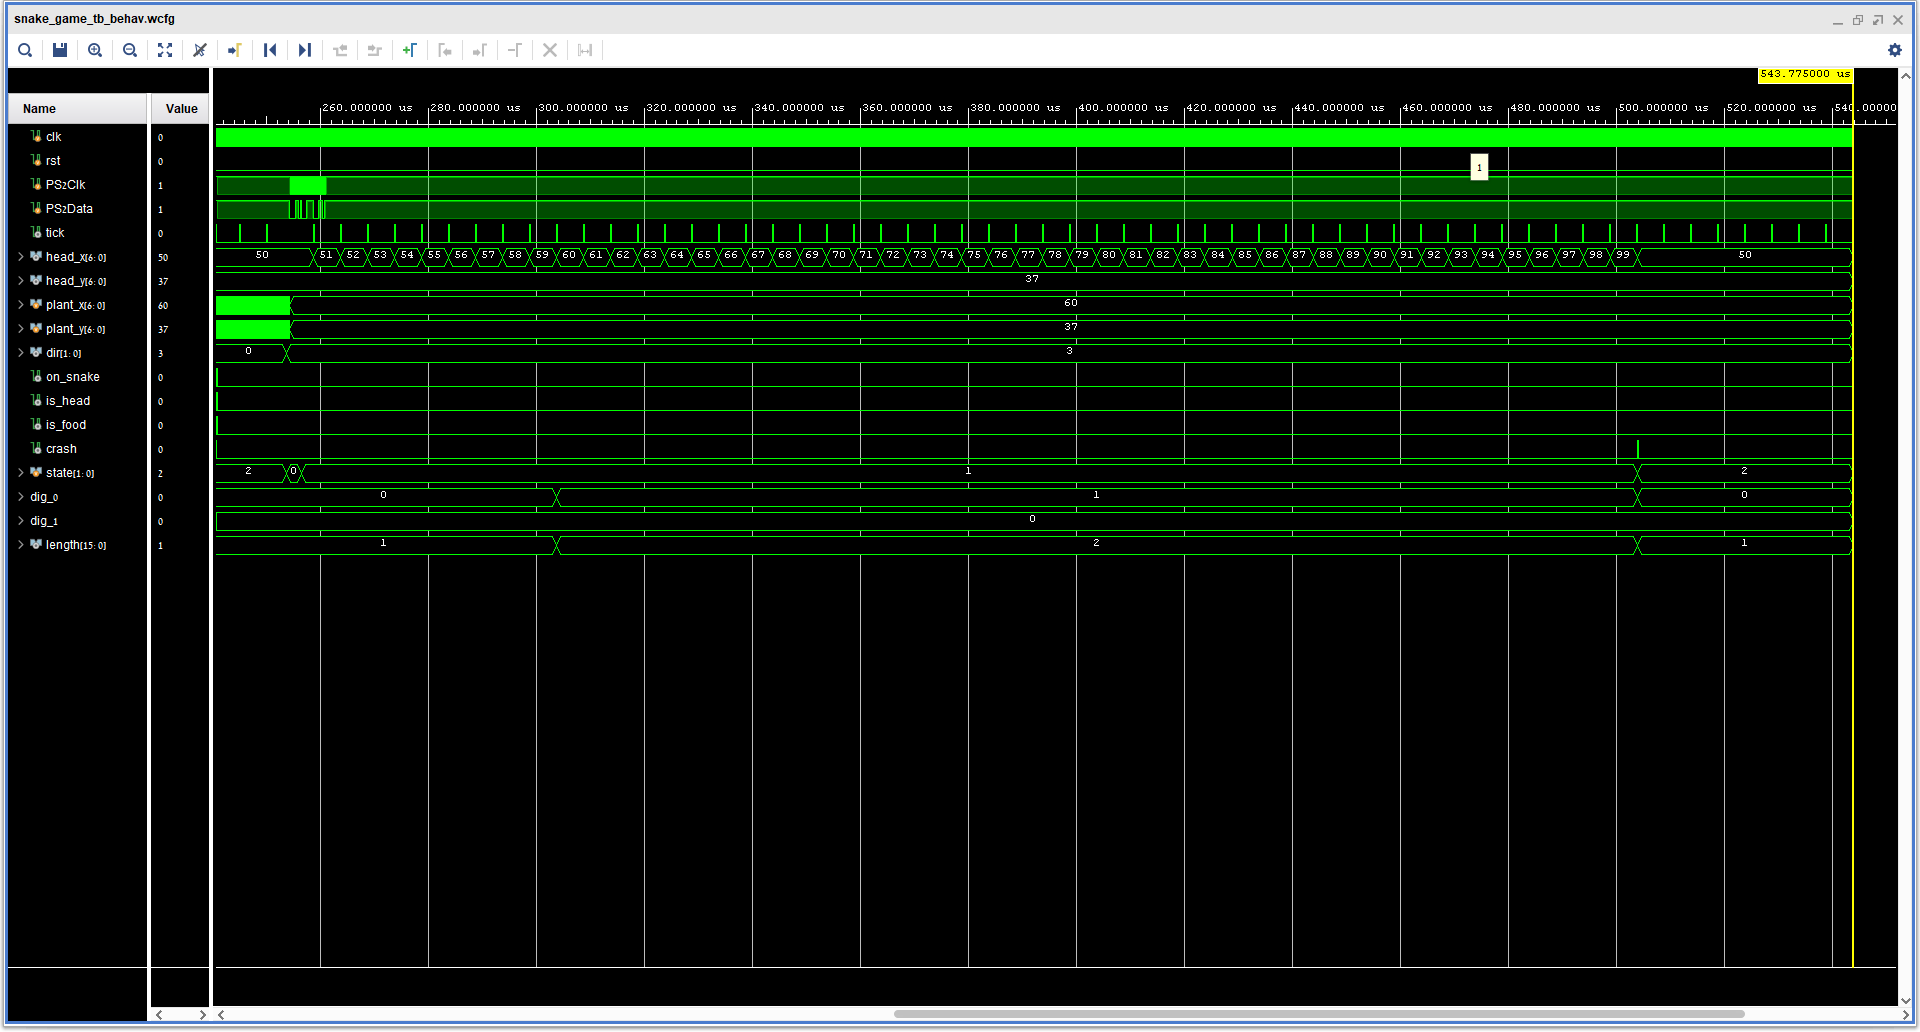
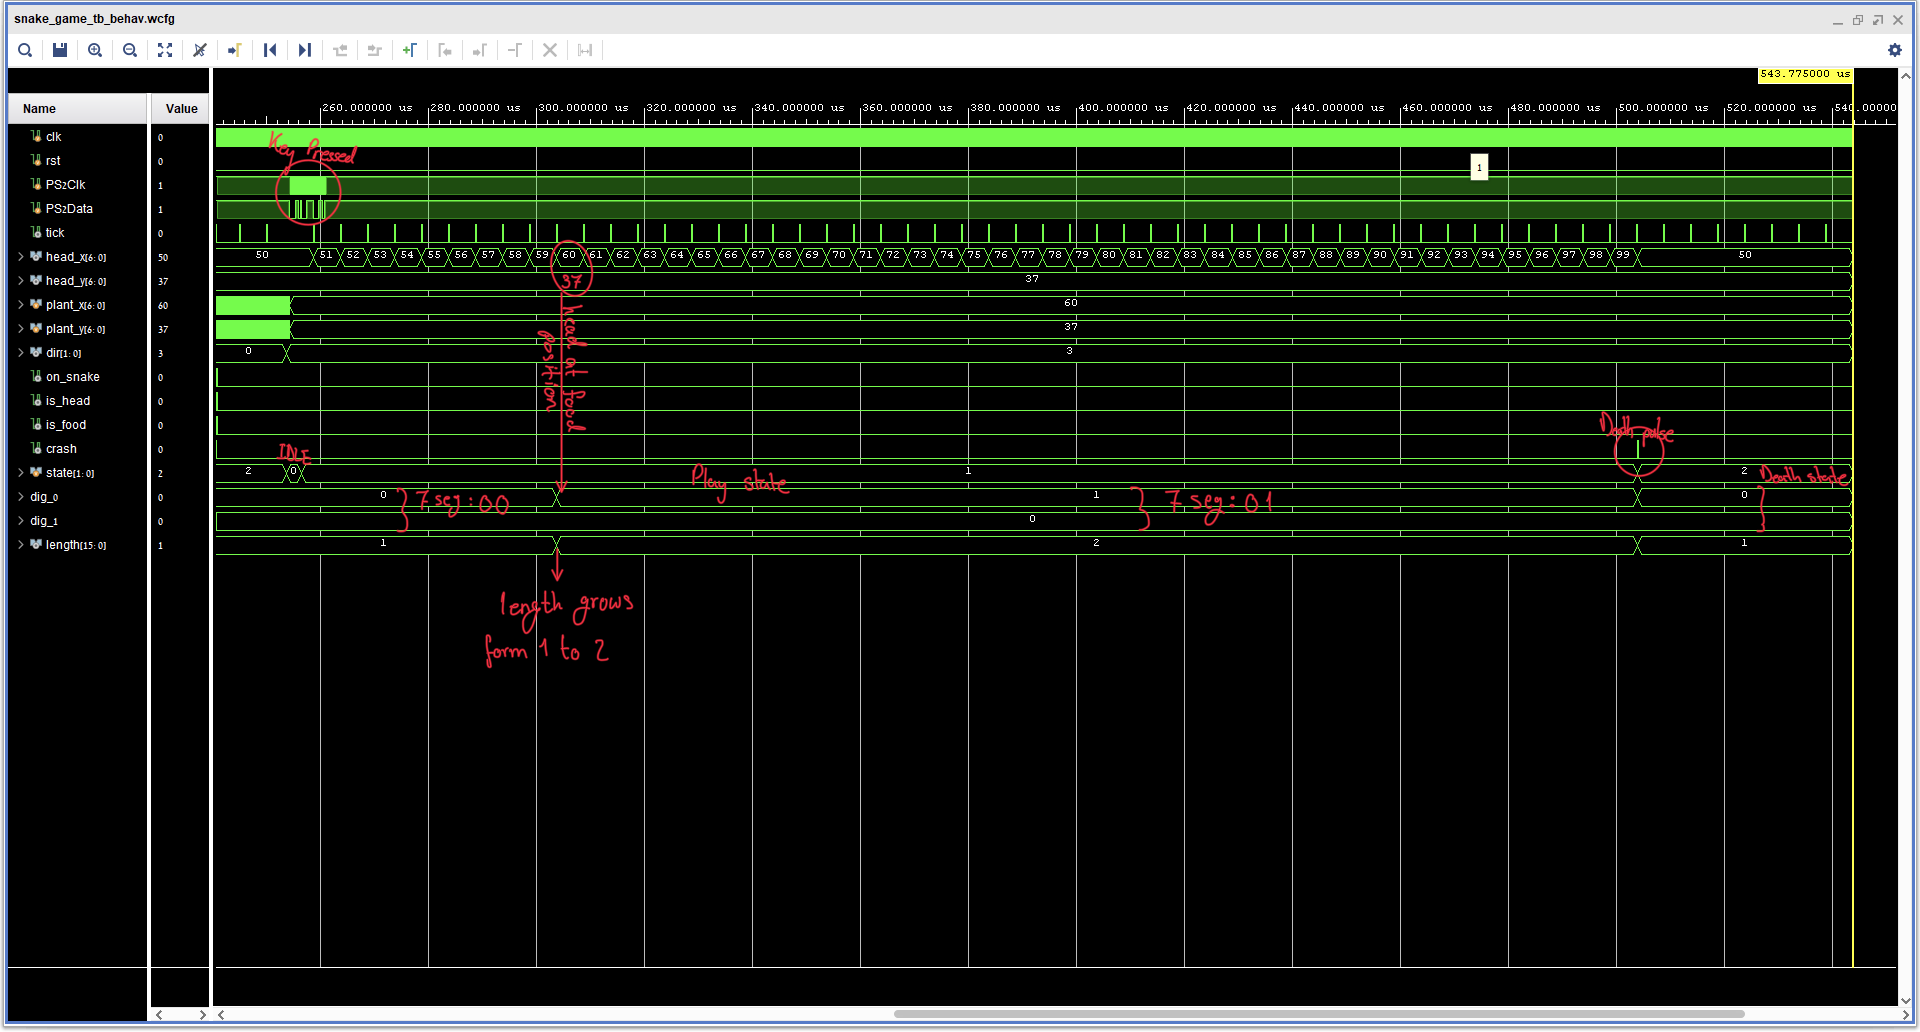
pdf v2

diff --git a/LAB_07/LaTeX/report.tex b/LAB_07/LaTeX/report.tex
@@ -11,9 +11,9 @@
 % =====================================================================
 \documentclass[11pt,a4paper]{article}
 
-\newcommand{\IDone}{\texttt{[213310485]}}   % <-- Saleh Khalil, ID
+\newcommand{\IDone}{\texttt{[ID1]}}   % <-- Saleh Khalil, ID
 \newcommand{\IDtwo}{\texttt{[ID2]}}   % <-- Mahmood Isteteh, ID
-\newcommand{\youtubelink}{https://youtu.be/REPLACE-ME}  % <-- paste your YouTube demo URL here
+\newcommand{\youtubelink}{https://youtu.be/W0P9rKjtpL8}  % <-- paste your YouTube demo URL here
 
 \usepackage[margin=2.4cm]{geometry}
 \usepackage{graphicx}
@@ -479,7 +479,7 @@ are covered in the next subsection.
 % =====================================================================
 \begin{figure}[H]
   \centering
-  \includegraphics[width=\textwidth]{hierarchy_internal.png}
+  \includegraphics[width=0.8\textwidth]{hierarchy_internal.png}
   \caption{Internal logic modules highlighted.}
   \label{fig:hier-internal}
 \end{figure}
@@ -488,7 +488,7 @@ are covered in the next subsection.
 
 \subsection{\texttt{snake.v} - the game core}
 \textbf{Purpose.} Owns the snake body, movement, growth, collision
-detection and score.
+detection, score and food position. It is the heart of the game.
 
 \begin{table}[H]
   \centering\small
@@ -504,7 +504,7 @@ detection and score.
     \texttt{x}, \texttt{y} & in & 7/7 & Cell queried by the renderer. \\
     \texttt{on\_snake}, \texttt{is\_head}, \texttt{is\_food} & out & 1 &
       Answers to the query: body / head / food at $(x,y)$. \\
-    \texttt{crash} & out & 1 & Latched game-over flag. \\
+    \texttt{crash} & out & 1 & Game-over flag. \\
     \texttt{score} & out & 16 & Current score (= snake length). \\
     \bottomrule
   \end{tabular}
@@ -525,38 +525,59 @@ head equals the food cell. The food position proposed by \texttt{farmer}
 is latched into \texttt{plant\_x/plant\_y} only when the food is eaten
 (or at reset), so the food stays put between meals.
 
-\textbf{Verification.} Exercised in full by \texttt{snake\_game\_tb}
-(movement, steering, growth, wall crash, restart); the per-tick log
-prints head position and length so the shift behaviour is directly
-observable.
+\textbf{Verification.} We tested it as part of \texttt{snake\_game\_tb}
+(movement, steering, growth, crash, restart).
 
+
+
+
+\newpage
 \subsubsection{\texttt{farmer.v} - food generator}
 
 \begin{figure}[H]
   \centering
   \includegraphics[width=0.8\textwidth]{hierarchy_farmer_farmer_tb.png}
-  % \caption{Food-placement coverage recorded by \texttt{farmer\_tb}
-  % ($15{,}000$ samples on the $100\times75$ grid; green = proposed at
-  % least once, dark = never proposed).}
+  \caption{\texttt{farmer.v} and \texttt{farmer\_tb.v} highlighted in the
+  design hierarchy.}
   \label{fig:farmer}
 \end{figure}
 
-\textbf{Purpose} This module serves as a pseudo-random food coordinates generator for the food position on the board (\texttt{food\_x}, \texttt{food\_y}). \\
-\textbf{Internal design} It holds a 16-bit shift register 
-that shifts left every clock (\texttt{100 MHz clk}), and the LSB becomes the \texttt{Xor} of the \texttt{lfsr[15], lfsr[13], lfsr[12], lfsr[10], keyPressed}
-the Farmer generates output that looks random but it raility is fully deterministic so we choose to make the shift every clock and use the \texttt{keyPressed} as an entropy source to make the output less predictable. The food coordinates are computed as follows:
+\textbf{Purpose.} This module is a pseudo-random food-coordinate
+generator for the food position on the board (\texttt{food\_x},
+\texttt{food\_y}).
+
+\textbf{Internal design.} It holds a 16-bit shift register that shifts
+left every clock (100\,MHz \texttt{clk}), where the new LSB is the
+\texttt{Xor} of \texttt{lfsr[15]}, \texttt{lfsr[13]}, \texttt{lfsr[12]},
+\texttt{lfsr[10]} and \texttt{keyPressed}. The output looks random but
+is in reality fully deterministic, so \texttt{keyPressed} is mixed in on
+every clock as an entropy source to make the output less predictable.
+The food coordinates are computed as follows:
 $\texttt{food\_x} = \texttt{lfsr}[6{:}0] \bmod \texttt{GRID\_X}$ and
 $\texttt{food\_y} = \texttt{lfsr}[13{:}7] \bmod \texttt{GRID\_Y}$.
 
-
-\textbf{Verification} The 
-testbench clocks the shift register $15{,}000$ times ($\approx 2$ proposals per
-grid cell), toggles \texttt{keyPressed} randomly ($\approx 1\%$ of
-clocks) and records every proposed coordinate. 
+\textbf{Verification.} The testbench clocks the shift register
+$15{,}000$ times ($\approx 2$ proposals per grid cell), toggles
+\texttt{keyPressed} randomly ($\approx 1\%$ of clocks) and records every
+proposed coordinate.
 
 \begin{figure}[H]
   \centering
   \includegraphics[width=0.8\textwidth]{farmer_wavefrom.png}
+  \caption{Simulation waveform of \texttt{farmer\_tb}: \texttt{food\_x}
+  and \texttt{food\_y} change every clock, showing that the generator
+  keeps proposing fresh coordinates.}
+  \label{fig:farmer-waveform}
+\end{figure}
+
+\textbf{Coverage.} Figure~\ref{fig:coverage} shows the resulting
+coverage of the $100\times75$ grid: green cells were proposed at least
+once, dark cells never. We achieved $\approx 81\%$ coverage, so the
+farmer is good enough to generate food coordinates across the board.
+
+\begin{figure}[H]
+  \centering
+  \includegraphics[width=0.8\textwidth]{food_coverage.png}
   \caption{Food-placement coverage recorded by \texttt{farmer\_tb}
   ($15{,}000$ samples on the $100\times75$ grid; green = proposed at
   least once, dark = never proposed).}
@@ -571,39 +592,26 @@ grid is reachable, and the bias is invisible during play, so this was
 accepted as a good trade-off for such a cheap generator.
 
 
-\textbf{Coverage} 
-Figure~\ref{fig:coverage}
-shows the resulting coverage of the $100\times75$ grid: green cells were
-proposed at least once, dark cells never(we have achived $\approx 81\%$  coverage) so we can confidently say that the farmer is good enogh to generate food coordinates.
-
-\begin{figure}[H]
-  \centering
-  \includegraphics[width=0.8\textwidth]{food_coverage.png}
-  \caption{Food-placement coverage recorded by \texttt{farmer\_tb}
-  ($15{,}000$ samples on the $100\times75$ grid; green = proposed at
-  least once, dark = never proposed).}
-  \label{fig:coverage}
-\end{figure}
-
 % =====================================================================
 % \section{Timing Block}
 % =====================================================================
 
-
+% \vspace{0.6 cm}
+\newpage
 \subsection{\texttt{game\_tick.v}}
-\textbf{Purpose.} Generates the movement strobe and implements the
+\textbf{Purpose} Generates the movement strobe and implements the
 difficulty ramp: the higher the score, the faster the snake.
 
 
 \begin{figure}[H]
   \centering
-  \includegraphics[width=\textwidth]{hierarchy_game_tick_tick_tb.png}
+  \includegraphics[width=0.7\textwidth]{hierarchy_game_tick_tick_tb.png}
   \caption{Timing block highlighted.}
 \end{figure}
 
 
 
-\textbf{Internal design.} A counter compares against a programmable
+\textbf{Internal design.} A counter \texttt{(Lim\_inc from lab2)} compares against a programmable
 period \texttt{tick\_speed} and emits a one-clock \texttt{tick} pulse on
 wrap-around. The period starts at the parameter
 \texttt{TICK\_MAX} ($14{,}285{,}714$ clocks $= 7$\,Hz at 100\,MHz) and
@@ -611,9 +619,9 @@ decreases linearly with the score:
 \[
   \texttt{tick\_speed} = \texttt{TICK\_MAX} - \texttt{score}\cdot 2^{18},
 \]
-clamped after 54 steps so the period never underflows. The module is
-fully parametric in \texttt{TICK\_MAX} (the testbench and top level both
-instantiate it explicitly with their own value).
+% clamped after 54 steps so the period never underflows. The module is
+% fully parametric in \texttt{TICK\_MAX} (the testbench and top level both
+% instantiate it explicitly with their own value).
 
 \begin{table}[H]
   \centering\small
@@ -627,18 +635,18 @@ instantiate it explicitly with their own value).
   \end{tabular}
 \end{table}
 
-\textbf{Verification -- \texttt{tick\_tb.v}.} The unit testbench sweeps
-the score through $0, 10, 50, 60, 64, 80$ (crossing the clamp) and
-exposes the internal period plus a derived frequency probe
-(\texttt{hz = 100\,MHz / tick\_speed}) so the ramp and the clamping are
-directly visible in the waveform.
+\textbf{Verification -- \texttt{tick\_tb.v}.} The  testbench sweeps
+the score \texttt{from 0 to MAX\_LEN(=64)} and
+exposes the tick pulse and at each $clk$ calculates the frequency.
 
-\placeholderbox{4.6cm}{Annotated waveform of \texttt{tick\_tb}: arrows on
-the shrinking distance between \texttt{tick} pulses as \texttt{score}
-steps up, and on \texttt{tick\_speed} saturating once the clamp
-(score $\geq 54$) is reached.}
+\begin{figure}[H]
+  \centering
+  \includegraphics[width=0.8\textwidth]{tick_wavefrom.png}
+  \caption{tick\_tb waveform}
+\end{figure}
 
 % =====================================================================
+\newpage
 \subsection{Rendering Block}
 
 \begin{figure}[H]
@@ -648,21 +656,26 @@ steps up, and on \texttt{tick\_speed} saturating once the clamp
 \end{figure}
 % =====================================================================
 
-\placeholderbox{5cm}{Rendering block highlighted.}
+% \placeholderbox{5cm}{Rendering block highlighted.}
 
 \subsubsection{\texttt{Pixel\_Painter.v}}
-\textbf{Purpose.} Bridges between the pixel domain (VGA scan
+\textbf{Purpose} Bridges \texttt{VGA\_Interface.v} and
+\texttt{grid\_mapper.v}, translating between the pixel domain (VGA scan
 coordinates) and the cell domain (game grid), and composes the final
 pixel color.
 
-\textbf{Internal design.} The scan position is divided by 8
-(\texttt{XCoord >> 3}) to obtain the queried grid cell $(x,y)$, and by 4
-to obtain the $200\times150$ bitmap coordinates used by the splash
-screens. The cell color returned by \texttt{GridMapper} is overlaid
-with black 1-pixel grid lines (every 8th row/column) while the game is
-in PLAY; \texttt{start\_game} (i.e.\ ``the game is on the PLAY screen'')
-is exported to the top level, where it releases the snake core from
-reset.
+\textbf{Internal design.} The same VGA scan position is translated two
+ways in parallel, one per screen. For the PLAY screen, it is divided by
+8 (\texttt{XCoord >> 3}, \texttt{YCoord >> 3}) to obtain the queried
+grid cell $(x,y)$, which \texttt{GridMapper} uses for the snake/food/
+checkerboard logic. For the IDLE and GAME\_OVER screens, it is instead
+divided by 4 (\texttt{XCoord >> 2}, \texttt{YCoord >> 2}) to obtain the
+$200\times150$ bitmap coordinates $(\texttt{img\_x}, \texttt{img\_y})$
+used to index the welcome and skull splash screens. The cell color
+returned by \texttt{GridMapper} is overlaid with black 1-pixel grid
+lines (every 8th row/column) while the game is in PLAY;
+\texttt{start\_game} (\ ``the game is on the PLAY screen'') is
+exported to the top level, where it releases the snake core from reset.
 
 \subsubsection{\texttt{grid\_mapper.v}}
 \textbf{Purpose.} The screen FSM and color oracle: decides \emph{what
@@ -686,7 +699,7 @@ checkerboard, whose odd/even parity is computed by the reused full adder
     \midrule
     Snake head & \texttt{0x222} & Background even & \texttt{0x0C0} \\
     Snake body & \texttt{0x444} & Background odd  & \texttt{0x0F0} \\
-    Food       & \texttt{0xF11} & Grid lines      & \texttt{0x000} \\
+    Food       & \texttt{0xF11} & GAME\_OVER background & \texttt{0x000} \\
     Skull      & \texttt{0xEEC} & ``YOU DIED'' text & \texttt{0xE11} \\
     Welcome bright & \texttt{0x6E2} & Welcome dark & \texttt{0x021} \\
     \bottomrule
@@ -805,10 +818,11 @@ visible checkerboard in every gameplay screenshot.
 % course.
 
 % =====================================================================
+\newpage
 \section{Vivado Synthesis and Implementation Results}
 % =====================================================================
 The design was synthesised and implemented in Vivado for the Basys~3
-board (Artix-7 \texttt{xc7a35tlcpg236-2L}). Synthesis and implementation
+board (texttt{xc7a35tlcpg236-2L}) Synthesis and implementation
 complete with no errors, no DRC violations, and all timing constraints
 met. The Vivado reports are reproduced below.
 
@@ -855,7 +869,7 @@ met. The Vivado reports are reproduced below.
 \end{figure}
 
 \begin{figure}[H]\centering
-  \includegraphics[width=\textwidth]{netlist_schematic_flip.pdf}
+  \includegraphics[width=0.8\textwidth]{netlist_schematic_flip.pdf}
   \caption{Synthesised netlist schematic (full design).}
 \end{figure}
 
@@ -877,21 +891,21 @@ Figure~\ref{fig:sequence}.
 
 \begin{figure}[H]\centering
   \begin{minipage}{0.485\textwidth}\centering
-    \includegraphics[width=\linewidth]{photo_welcome.png}\\[3pt]
+    \includegraphics[width=0.9\linewidth]{photo_welcome.png}\\[3pt]
     \small (a) Welcome / start screen
   \end{minipage}\hfill
   \begin{minipage}{0.485\textwidth}\centering
-    \includegraphics[width=\linewidth]{photo_play1.png}\\[3pt]
+    \includegraphics[width=0.9\linewidth]{photo_play1.png}\\[3pt]
     \small (b) Playing --- snake and red food
   \end{minipage}
 
   \vspace{10pt}
   \begin{minipage}{0.485\textwidth}\centering
-    \includegraphics[width=\linewidth]{photo_play2.png}\\[3pt]
+    \includegraphics[width=0.9\linewidth]{photo_play2.png}\\[3pt]
     \small (c) Later in the round --- longer snake
   \end{minipage}\hfill
   \begin{minipage}{0.485\textwidth}\centering
-    \includegraphics[width=\linewidth]{photo_gameover.png}\\[3pt]
+    \includegraphics[width=0.9\linewidth]{photo_gameover.png}\\[3pt]
     \small (d) Game over --- ``YOU DIED''
   \end{minipage}
   \caption{The Snake game running on the monitor: start, play, and the
@@ -903,57 +917,57 @@ Figure~\ref{fig:sequence}.
 A video of the game running on the Basys3 board is available on YouTube:
 \begin{center}
   \large\href{\youtubelink}{\texttt{\youtubelink}}\\[4pt]
-  \normalsize\textcolor{red!60!black}{[REPLACE THE LINK ABOVE --- set
-  \texttt{\textbackslash youtubelink} at the top of this file to your YouTube URL]}
+  % \normalsize\textcolor{red!60!black}{[REPLACE THE LINK ABOVE --- set
+  % \texttt{\textbackslash youtubelink} at the top of this file to your YouTube URL]}
 \end{center}
 
-% =====================================================================
-\section{Problems Encountered and Solutions}\label{sec:problems}
-% =====================================================================
-\begin{enumerate}
-  \item \textbf{Debouncer X-propagation in simulation.} The debouncer's
-  hysteresis counter has no reset, so in simulation it powers up as
-  \texttt{X} and the internal reset pulse never resolves (on the FPGA
-  the global reset initialises it). \emph{Solution:} the integration
-  testbench forces the internal \texttt{reset} net directly for a few
-  cycles instead of pressing the button.
+% % =====================================================================
+% \section{Problems Encountered and Solutions}\label{sec:problems}
+% % =====================================================================
+% \begin{enumerate}
+%   \item \textbf{Debouncer X-propagation in simulation.} The debouncer's
+%   hysteresis counter has no reset, so in simulation it powers up as
+%   \texttt{X} and the internal reset pulse never resolves (on the FPGA
+%   the global reset initialises it). \emph{Solution:} the integration
+%   testbench forces the internal \texttt{reset} net directly for a few
+%   cycles instead of pressing the button.
 
-  \item \textbf{The real game tick is far too slow to simulate.} At
-  7\,Hz, one snake step takes $14.3$ million clocks. \emph{Solution:}
-  \texttt{snake\_game\_tb} generates its own fast tick (every 500
-  clocks) and forces it onto the internal \texttt{tick} net, so a whole
-  game fits in a short simulation.
+%   \item \textbf{The real game tick is far too slow to simulate.} At
+%   7\,Hz, one snake step takes $14.3$ million clocks. \emph{Solution:}
+%   \texttt{snake\_game\_tb} generates its own fast tick (every 500
+%   clocks) and forces it onto the internal \texttt{tick} net, so a whole
+%   game fits in a short simulation.
 
-  \item \textbf{Keyboard break codes re-triggered keys.} A PS/2 key
-  release sends \texttt{F0} + scancode, which naively looks like a
-  second key press. \emph{Solution:} the receiver skips
-  \texttt{E0}/\texttt{F0} bytes and re-arms on the byte following
-  \texttt{F0}, so exactly one \texttt{keyPressed} fires per physical
-  press.
+%   \item \textbf{Keyboard break codes re-triggered keys.} A PS/2 key
+%   release sends \texttt{F0} + scancode, which naively looks like a
+%   second key press. \emph{Solution:} the receiver skips
+%   \texttt{E0}/\texttt{F0} bytes and re-arms on the byte following
+%   \texttt{F0}, so exactly one \texttt{keyPressed} fires per physical
+%   press.
 
-  \item \textbf{Timing warnings from a divided pixel clock.} Driving
-  logic from a register-divided 50\,MHz clock produced ``non-clocked
-  sequential cell'' critical warnings in Vivado. \emph{Solution:} the
-  VGA module was restructured to run at 100\,MHz with a \texttt{pix\_en}
-  clock-enable every second cycle -- one clock domain, no derived
-  clocks.
+%   \item \textbf{Timing warnings from a divided pixel clock.} Driving
+%   logic from a register-divided 50\,MHz clock produced ``non-clocked
+%   sequential cell'' critical warnings in Vivado. \emph{Solution:} the
+%   VGA module was restructured to run at 100\,MHz with a \texttt{pix\_en}
+%   clock-enable every second cycle -- one clock domain, no derived
+%   clocks.
 
-  \item \textbf{Long combinational paths in the body scan.} Comparing
-  the next head against all 64 body slots combinationally, directly at
-  the tick, created long paths. \emph{Solution:} the next-head
-  coordinates, self-hit and eat flags are registered one cycle before
-  the movement update consumes them (\texttt{next\_x\_r},
-  \texttt{hit\_self\_r}, \texttt{is\_eaten\_r}).
+%   \item \textbf{Long combinational paths in the body scan.} Comparing
+%   the next head against all 64 body slots combinationally, directly at
+%   the tick, created long paths. \emph{Solution:} the next-head
+%   coordinates, self-hit and eat flags are registered one cycle before
+%   the movement update consumes them (\texttt{next\_x\_r},
+%   \texttt{hit\_self\_r}, \texttt{is\_eaten\_r}).
 
-  \item \textbf{Food generator bias.} The coverage run
-  (Figure~\ref{fig:coverage}) exposed the modulo bias of the LFSR
-  mapping. Rather than adding a rejection loop, the bias was measured,
-  shown to leave every cell reachable, and accepted; keyboard entropy
-  was mixed into the LFSR feedback to decorrelate games.
+%   \item \textbf{Food generator bias.} The coverage run
+%   (Figure~\ref{fig:coverage}) exposed the modulo bias of the LFSR
+%   mapping. Rather than adding a rejection loop, the bias was measured,
+%   shown to leave every cell reachable, and accepted; keyboard entropy
+%   was mixed into the LFSR feedback to decorrelate games.
 
-  \item \placeholderbox{2.4cm}{Any additional problems encountered
-  during the in-lab session and their solutions.}
-\end{enumerate}
+%   \item \placeholderbox{2.4cm}{Any additional problems encountered
+%   during the in-lab session and their solutions.}
+% \end{enumerate}
 
 % =====================================================================
 \section{Conclusion}